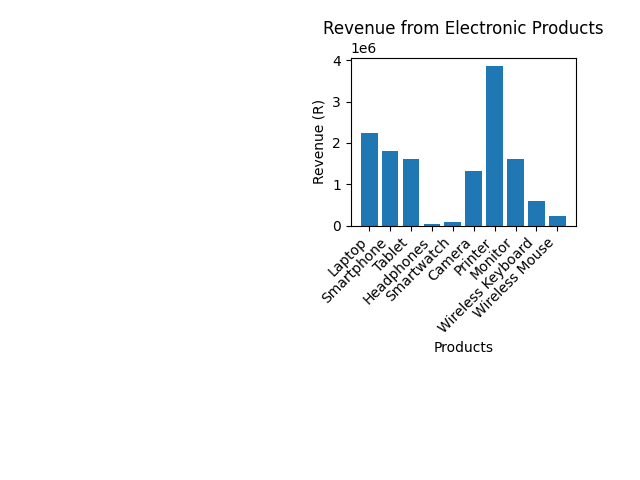
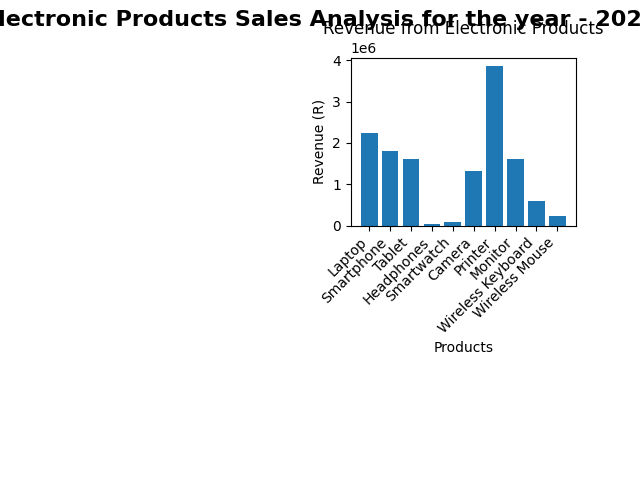
Added th subtitle to the Dashboard

Changed region(s): [[0.0, 0.0, 1.0, 0.0625]]

diff --git a/main.py b/main.py
@@ -13,6 +13,8 @@ def calculate_daily_sales():
 '''
 plt.figure()
 
+plt.suptitle("Electronic Products Sales Analysis for the year - 2025", fontsize=16, weight="bold")
+
 def plot_daily_sales(products, daily_sales):
     plt.subplot(2, 2, 1)
     plt.title("Daily Sales of Electronic Products")
